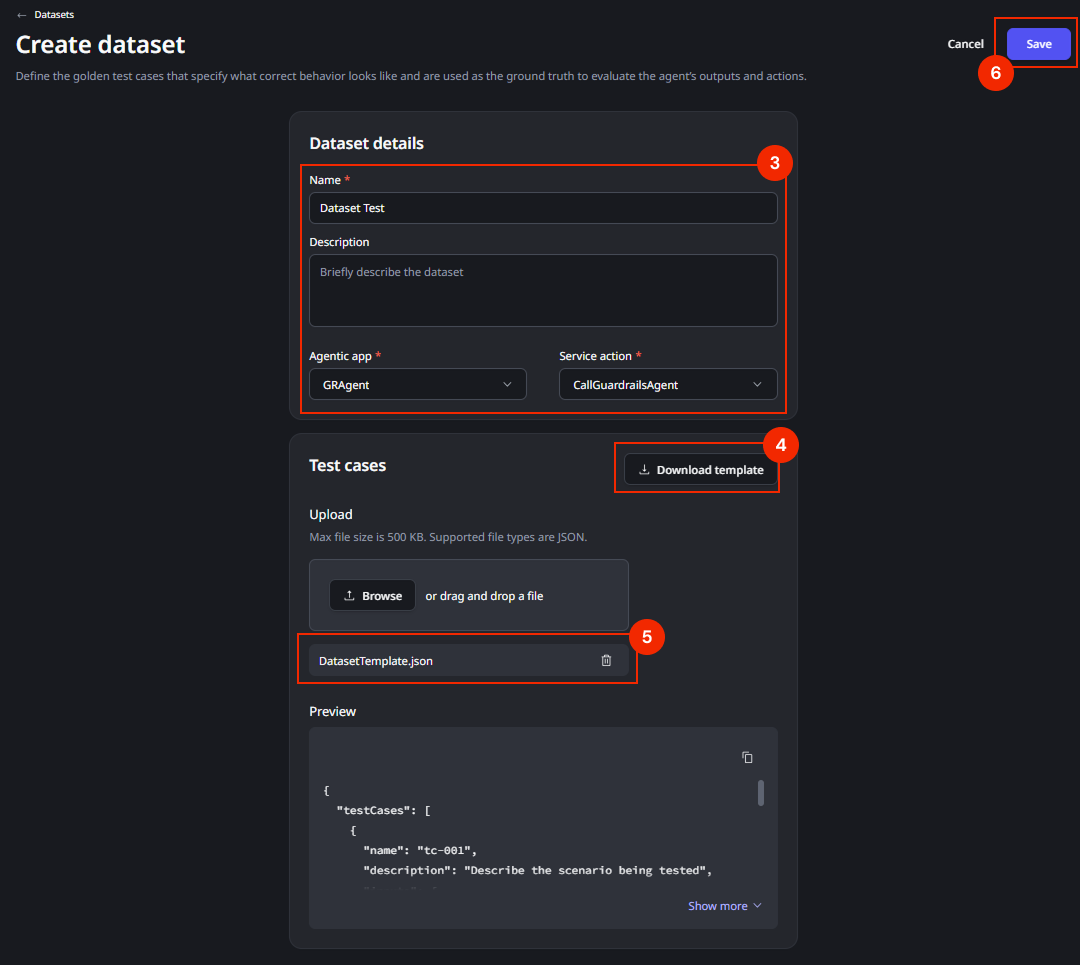
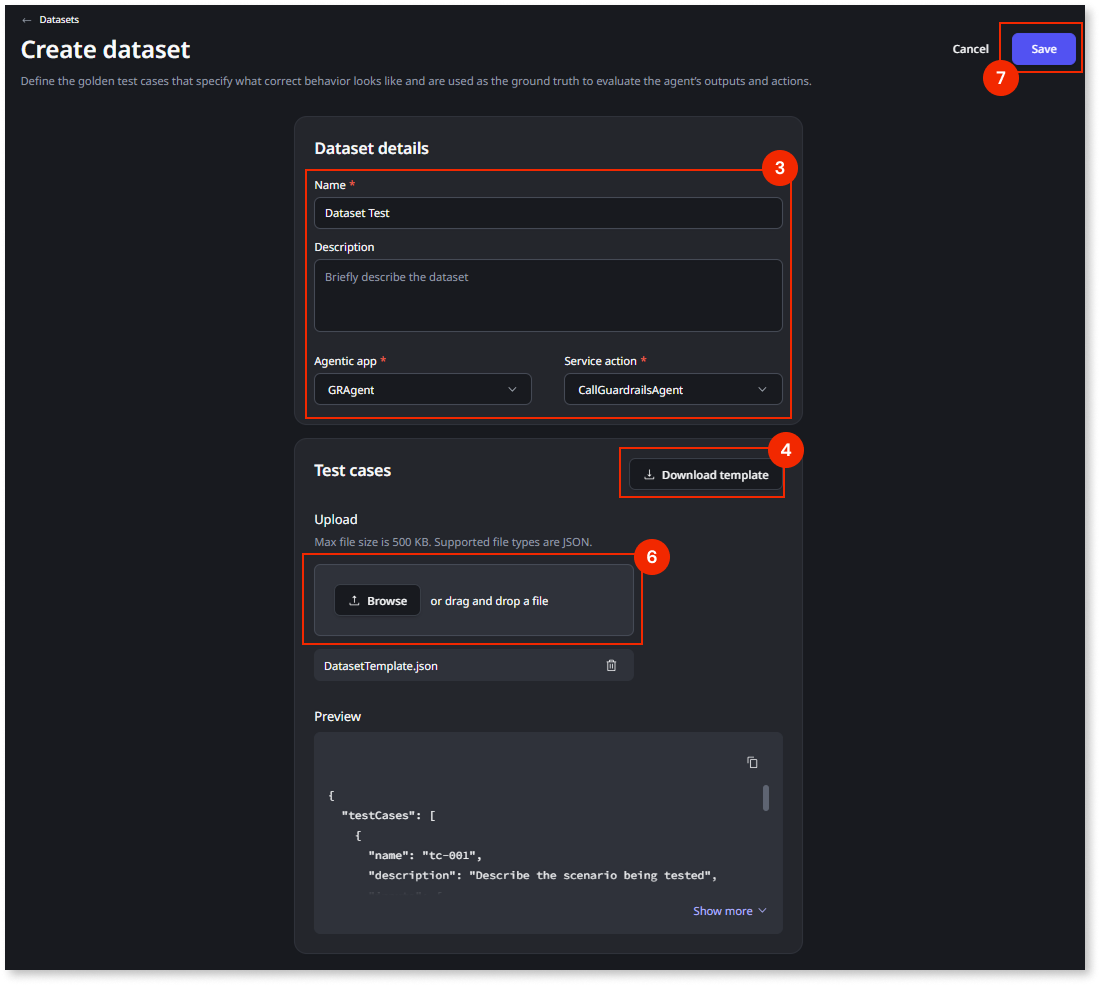
TK-20571 Fix screenshot numbers, update dataset path (#2387)

diff --git a/src/eap/building-apps/build-ai-powered-apps/construct-dataset.md b/src/eap/building-apps/build-ai-powered-apps/construct-dataset.md
@@ -149,15 +149,14 @@ Field names, nesting, and types for the JSON file follow the product contract fo
 
 To create and save a dataset, follow these steps:
 
-1. In the **ODC Portal**, navigate to **CREATE** > **Agents** > **Datasets**.
+1. In the **ODC Portal**, navigate to **ANALYZE** > **Agent evaluations** > **Datasets**.
 1. Select **Create dataset**.
 1. Enter the **Dataset details**: **Name**, **Description** (optional), **Agentic app**, and **Service action**.
 1. Download the template.
 1. Edit the template JSON to add your test cases. For recommendations on coverage and expectations, refer to [Design strong test cases](#design-strong-test-cases) earlier in this topic.
 1. Upload the completed JSON file.
 1. Click **Save**.
-
-![Create dataset screen displaying dataset details fields, the Download template button, file upload area, and the Save action highlighted.](images/create-dataset-pl.png "Create dataset form in ODC Portal")
+  ![Create dataset screen displaying dataset details fields, the Download template button, file upload area, and the Save action highlighted.](images/create-dataset-pl.png "Create dataset form in ODC Portal")
 
 After you save, the row data is read-only. To change test rows, prepare a new JSON file and follow your team's process for updating datasets (for example, creating a new dataset).
 
